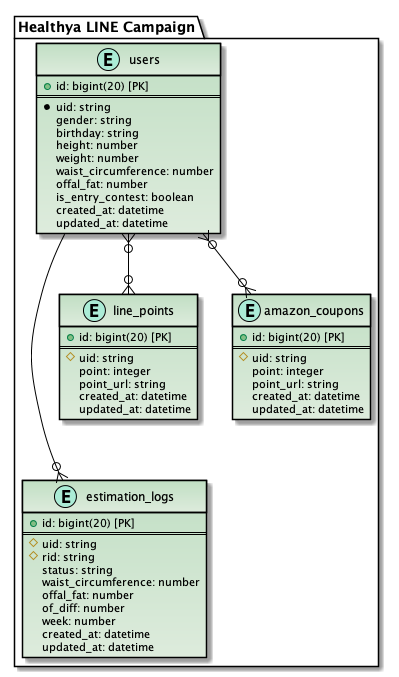
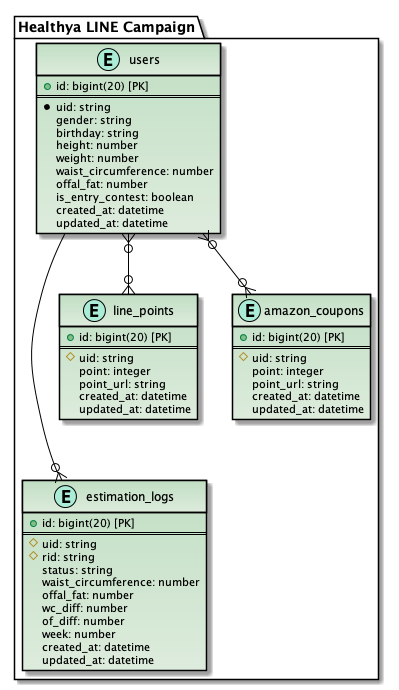
Update output files.

diff --git a/doc/api_spec/api_spec.html b/doc/api_spec/api_spec.html
@@ -95,6 +95,7 @@
   "<span class="hljs-attribute">status</span>": <span class="hljs-value"><span class="hljs-string">"requested"</span></span>,
   "<span class="hljs-attribute">waist_circumference</span>": <span class="hljs-value"><span class="hljs-number">80</span></span>,
   "<span class="hljs-attribute">offal_fat</span>": <span class="hljs-value"><span class="hljs-number">20</span></span>,
+  "<span class="hljs-attribute">wc_diff</span>": <span class="hljs-value"><span class="hljs-number">0</span></span>,
   "<span class="hljs-attribute">of_diff</span>": <span class="hljs-value"><span class="hljs-number">0</span></span>,
   "<span class="hljs-attribute">week</span>": <span class="hljs-value"><span class="hljs-number">1</span></span>,
   "<span class="hljs-attribute">created_at</span>": <span class="hljs-value"><span class="hljs-string">"2019-11-13 18:34:52"</span></span>,
@@ -131,6 +132,10 @@
     "<span class="hljs-attribute">offal_fat</span>": <span class="hljs-value">{
       "<span class="hljs-attribute">type</span>": <span class="hljs-value"><span class="hljs-string">"number"</span></span>,
       "<span class="hljs-attribute">description</span>": <span class="hljs-value"><span class="hljs-string">"Nullable. Estimated offal fat."</span>
+    </span>}</span>,
+    "<span class="hljs-attribute">wc_diff</span>": <span class="hljs-value">{
+      "<span class="hljs-attribute">type</span>": <span class="hljs-value"><span class="hljs-string">"number"</span></span>,
+      "<span class="hljs-attribute">description</span>": <span class="hljs-value"><span class="hljs-string">"Nullable."</span>
     </span>}</span>,
     "<span class="hljs-attribute">of_diff</span>": <span class="hljs-value">{
       "<span class="hljs-attribute">type</span>": <span class="hljs-value"><span class="hljs-string">"number"</span></span>,
@@ -650,7 +655,7 @@
   "<span class="hljs-attribute">required</span>": <span class="hljs-value">[
     <span class="hljs-string">"errors"</span>
   ]
-</span>}</code></pre><div style="height: 1px;"></div></div></div></div></div></section></div></div></div><p style="text-align: center;" class="text-muted">Generated by&nbsp;<a href="https://github.com/danielgtaylor/aglio" class="aglio">aglio</a>&nbsp;on 29 Nov 2019</p><script>/* eslint-env browser */
+</span>}</code></pre><div style="height: 1px;"></div></div></div></div></div></section></div></div></div><p style="text-align: center;" class="text-muted">Generated by&nbsp;<a href="https://github.com/danielgtaylor/aglio" class="aglio">aglio</a>&nbsp;on 02 Dec 2019</p><script>/* eslint-env browser */
 /* eslint quotes: [2, "single"] */
 'use strict';
 
